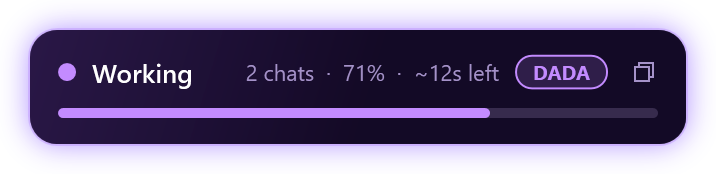
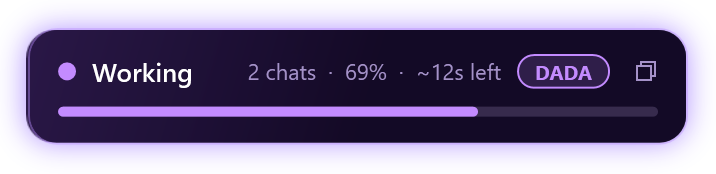
Design polish: tabular numbers, no widows, origin-aware minimize, stagger
- Tabular numbers and fixed widths on every timer, percent and duration,
  so nothing wobbles while it counts
- Status lines only wrap between phrases, and sentences never strand a
  lone word; the "running long" notice is shorter
- Comfortable line height on wrapped text
- Minimize button is a 24px target with a soft hover highlight
- Minimize is anchored at the right edge and morphs (width and height)
  toward the button; restore unfolds from the same corner
- New cards and their activity rows fade in with a short stagger
- The demo now shows minimize and restore, and never saves settings
- Click handlers log errors instead of closing the window

diff --git a/README.md b/README.md
@@ -38,8 +38,9 @@ See what Claude is doing right now, where the time went, and roughly how long is
 | 🗂 **One card per chat** | Every Claude chat that's working gets its own progress card, labelled with its folder and your message. |
 | ✅ **Activity list** | Each step with ✓ or ✗, how long it took, and what's running now. |
 | 🎨 **Themes, sizes, modes** | Normal, DADA and REN themes · Small to Extra large (or Ctrl + scroll) · Saver, Neutral and Full power. |
-| ➖ **Minimize** | Shrink it to a slim bar with the percent, time left and a thin progress line. |
-| 🌊 **Smooth motion** | Bars glide continuously, and new steps, notices and chats grow open instead of popping in. |
+| ➖ **Minimize** | Folds down into a slim bar toward the button you clicked, with the percent, time left and a thin progress line. |
+| 🌊 **Smooth motion** | Bars glide continuously; new steps, notices and chats grow open and enter in a gentle stagger instead of popping in. |
+| 🔢 **Calm numbers** | Fixed-width digits, so timers and percentages count without wobbling, and status lines never strand a lone word. |
 | 🔒 **Private** | Everything stays on your computer. Nothing is sent anywhere. |
 
 ## 🎨 Themes
